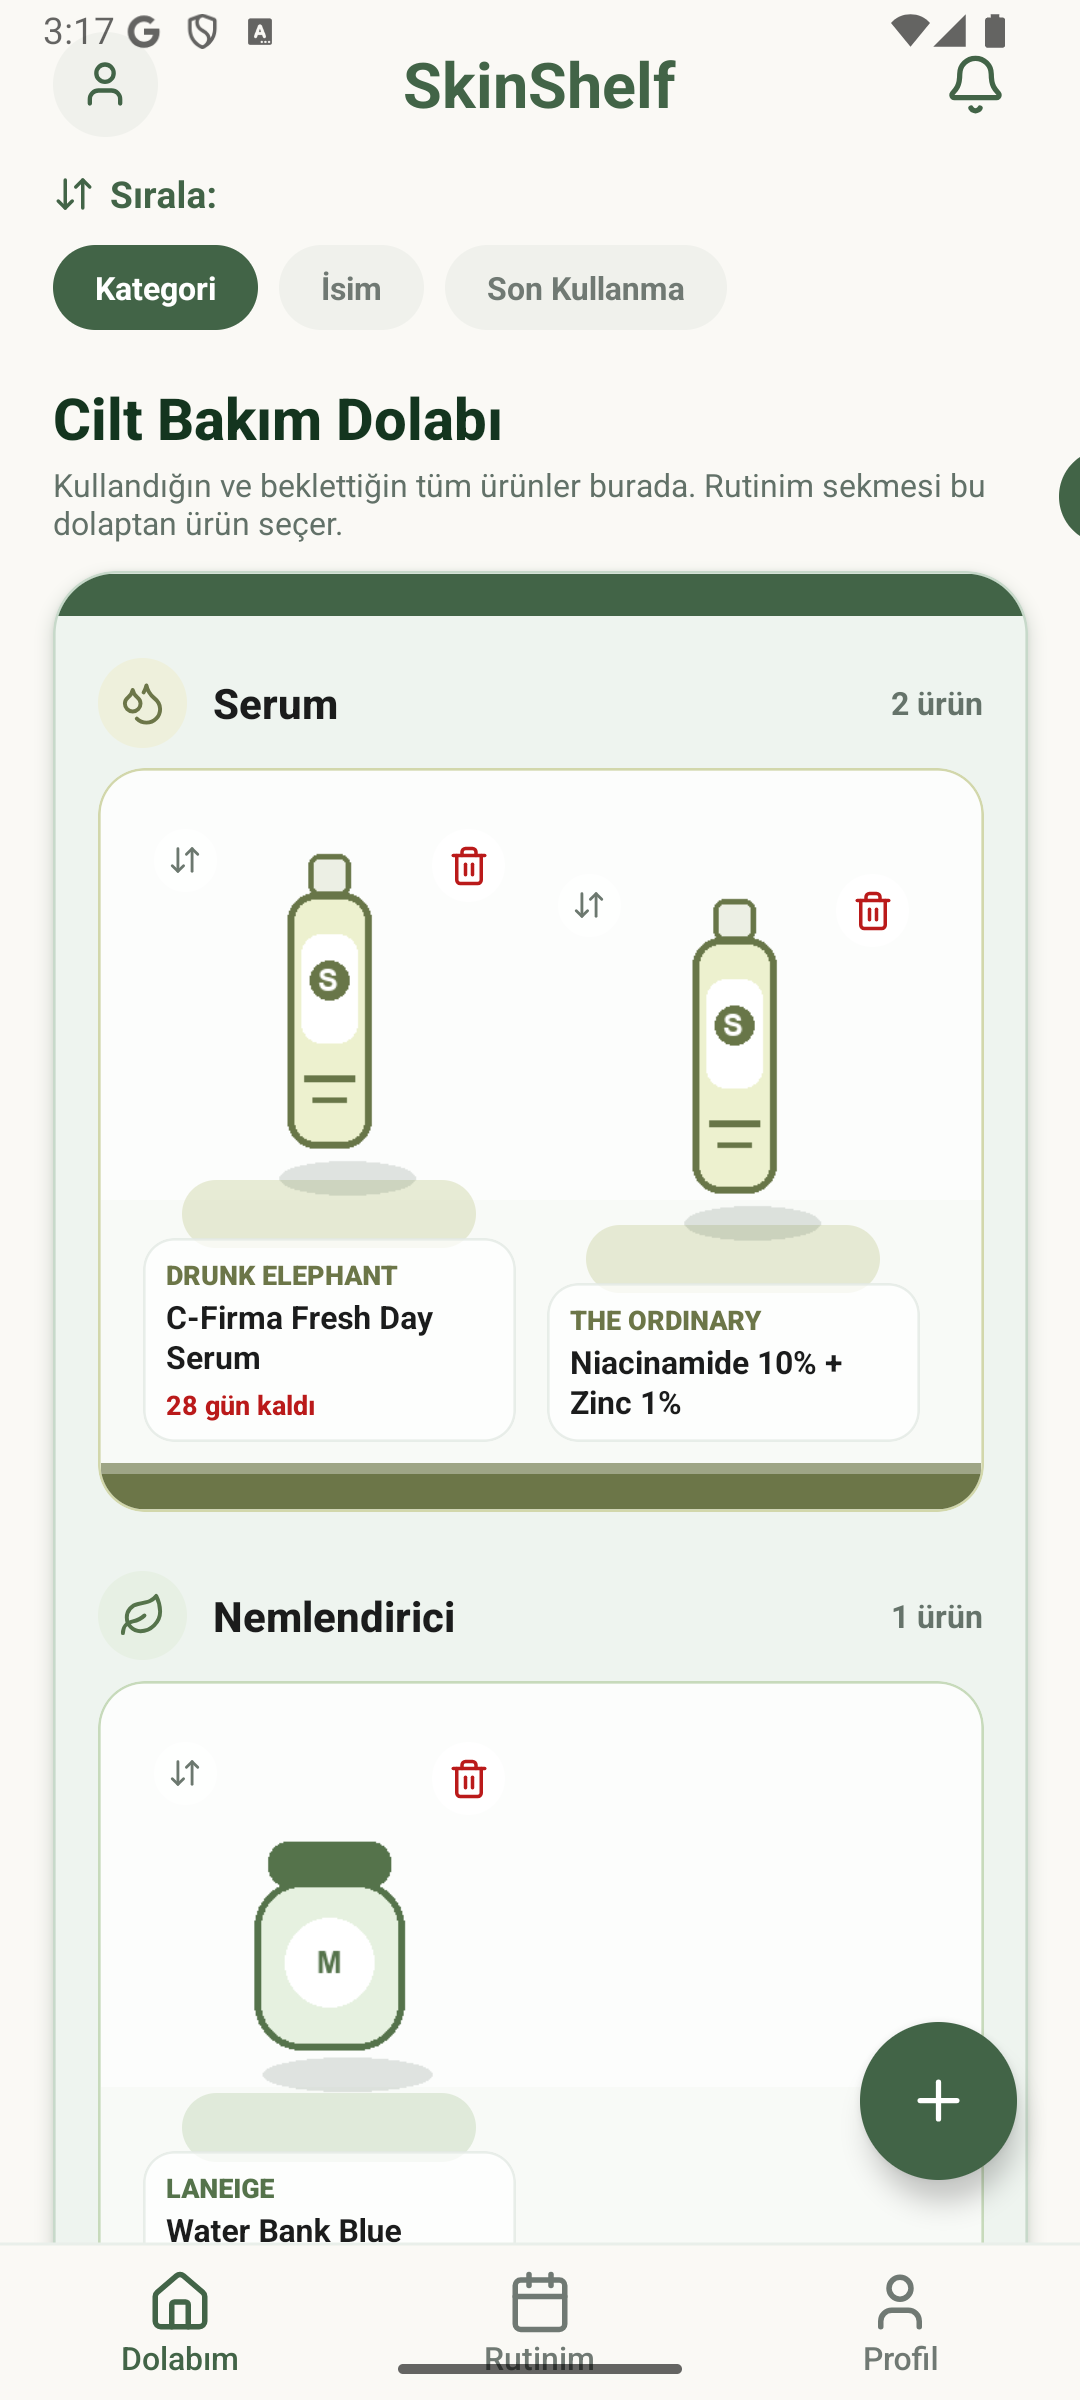
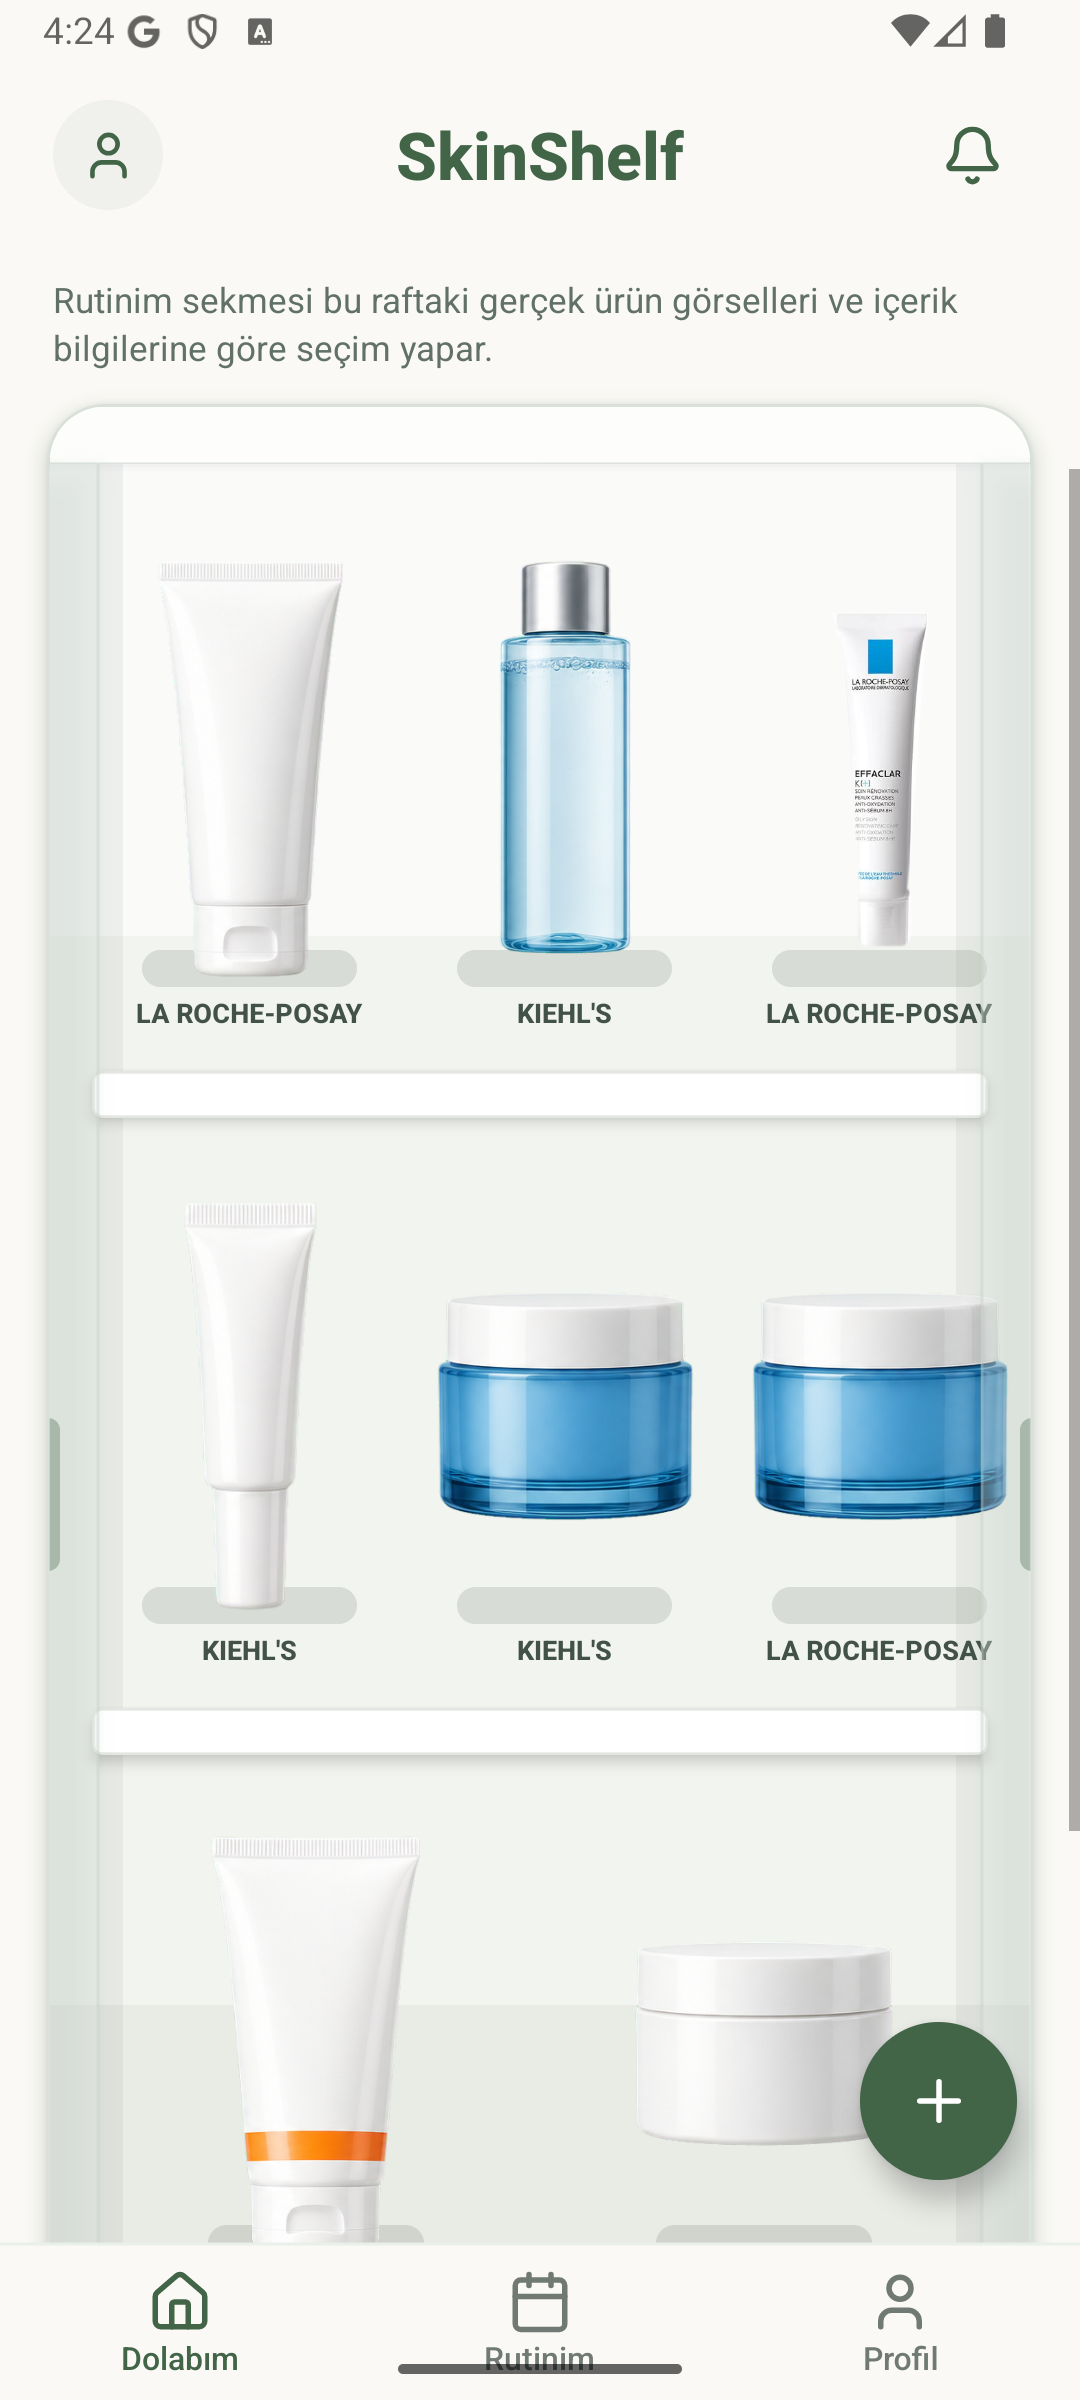
docs: update sprint 1 app evidence

diff --git a/Project_Management_Files/Sprint_1/System_Design/Product_Data_Source_Plan.md b/Project_Management_Files/Sprint_1/System_Design/Product_Data_Source_Plan.md
@@ -1,6 +1,6 @@
 # Sprint 1 Product Data Source Plan
 
-SkinShelf'in ürün ekleme akışında barkod okutulduğunda ürün adı, marka, içerik listesi ve ürün görselinin otomatik doldurulması hedeflenmektedir. Sprint 1'de bu ihtiyaca uygun açık veri kaynağı araştırılmış ve mobil servis katmanında entegrasyon iskeleti hazırlanmıştır.
+SkinShelf'in ürün ekleme akışında barkod okutulduğunda ürün adı, marka, içerik listesi ve kategori bilgisinin otomatik doldurulması hedeflenmektedir. Sprint 1'de bu ihtiyaca uygun açık veri kaynağı araştırılmış ve mobil servis katmanında entegrasyon iskeleti hazırlanmıştır. Ürün görselleri ise açık kaynak ürün fotoğrafından bağımsız, ekip tarafından hazırlanacak PNG/cutout katalog veya backend database eşleşmesi üzerinden yönetilecektir.
 
 ## Seçilen Açık Veri Kaynağı
 
@@ -9,13 +9,20 @@ Birincil kaynak olarak Open Beauty Facts planlanmıştır.
 - Kaynak: https://github.com/openfoodfacts/openbeautyfacts
 - Web: https://world.openbeautyfacts.org
 - API yaklaşımı: `GET /api/v2/product/{barcode}`
-- Örnek alanlar: `product_name`, `brands`, `ingredients_text`, `image_front_url`, `categories_tags`
+- Örnek alanlar: `product_name`, `brands`, `ingredients_text`, `categories_tags`
 
 Open Beauty Facts, kozmetik ürünler için topluluk katkılı açık veri tabanı sunduğu için SkinShelf'in barkod ile ürün tanıma hedefiyle uyumludur.
 
 ## Sprint 1 Teknik Kararı
 
 Sprint 1'de `src/services/openBeautyFactsService.ts` dosyası eklenmiştir. Bu servis barkoddan ürün verisi çekmeyi, gelen cevabı uygulamanın `ProductDraft` modeline çevirmeyi ve ürün inceleme ekranına aktarmayı hedefler.
+
+Ürün raf görseli için ayrı bir katalog kararı alınmıştır:
+
+- `src/services/productVisualCatalog.ts` marka + ürün adına göre lokal veya backend kaynaklı `cutoutImageUrl` eşleşmesi yapar.
+- Eşleşme varsa raflarda gerçek ürün PNG/cutout gösterilir.
+- Eşleşme yoksa kategori bazlı temsili PNG gösterilir.
+- Sprint 1 demo kanıtında La Roche-Posay Effaclar K(+) için kullanıcı tarafından sağlanan ürün görseli arka plansız PNG cutout olarak eklenmiştir.
 
 Kullanılan demo barkod:
 
@@ -30,9 +37,10 @@ Bu barkod Open Beauty Facts üzerinde La Roche-Posay Effaclar Duo+ örneği olar
 1. Kullanıcı Scanner ekranında barkod okutmayı seçer.
 2. Mobil uygulama barkodu `productService.scanProduct()` fonksiyonuna gönderir.
 3. `openBeautyFactsService` Open Beauty Facts API'den ürün bilgilerini ister.
-4. Ürün bulunursa marka, ürün adı, kategori, içerik ve görsel ProductReview ekranına otomatik taşınır.
-5. Ürün bulunamazsa fotoğraf/etiket okuma akışına geçilir.
-6. Kullanıcı gerekirse otomatik gelen bilgileri düzenler ve ürünü dolabına kaydeder.
+4. Ürün bulunursa marka, ürün adı, kategori ve içerik ProductReview ekranına otomatik taşınır.
+5. `productVisualCatalog` ürün adı/marka eşleşmesine göre raf görseli için cutout PNG seçer.
+6. Ürün bulunamazsa fotoğraf/etiket okuma akışına geçilir.
+7. Kullanıcı gerekirse otomatik gelen bilgileri düzenler ve ürünü dolabına kaydeder.
 
 ## Fallback Stratejisi
 
@@ -53,12 +61,14 @@ Open Beauty Facts topluluk katkılı bir kaynak olduğu için her ürünün veya
 | İçerik listesi eksik veya farklı dilde | AI analizi zayıflayabilir | Kullanıcıdan içerik etiketi fotoğrafı isteme |
 | Ürün kategorisi hatalı gelebilir | Rutin önerisi yanlış olabilir | Kategori alanını ProductReview ekranında düzenlenebilir tutma |
 | İçerik listesi eksik veya hatalı gelebilir | AI uyumluluk analizi eksik kalabilir | İçerik etiketlerini ProductReview ekranında eklenebilir/silinebilir tutma |
+| Ürünün gerçek PNG cutout görseli katalogda yok | Raflarda gerçek ürün yerine temsili şişe görünür | Ekip tarafından manuel cutout DB/katalog genişletme |
 | Veri kaynağı çevrimdışı olabilir | Barkod akışı çalışmayabilir | Demo/fallback product response ve hata yönetimi |
 
 ## Sprint 2 Entegrasyon Hedefi
 
 - Gerçek kamera barkod okuyucu entegrasyonu
 - Open Beauty Facts endpoint'i için hata yönetimi
+- Ürün cutout görsel katalog / database yönetimi
 - Ürün bulunamama durumunda fotoğraf/OCR fallback'i
 - Gemini ile içerik normalizasyonu
 - Kullanıcı onayı sonrası backend/database kayıt akışı

diff --git a/README.md b/README.md
@@ -160,7 +160,8 @@ AI servis planı: [AI_Service_Plan.md](Project_Management_Files/Sprint_1/System_
 **Barkod / açık ürün verisi kararı:**
 
 - Barkod ile ürün tanıma için Open Beauty Facts açık kozmetik ürün verisi birincil kaynak olarak seçilmiştir.
-- `src/services/openBeautyFactsService.ts` ile barkoddan ürün adı, marka, içerik, kategori ve görsel alanlarını ProductReview ekranına taşıyacak servis iskeleti eklenmiştir.
+- `src/services/openBeautyFactsService.ts` ile barkoddan ürün adı, marka, içerik ve kategori alanlarını ProductReview ekranına taşıyacak servis iskeleti eklenmiştir.
+- Ürün görselleri açık kaynak fotoğraf alanından bağımsız tutulmuştur. Raf görünümü için `src/services/productVisualCatalog.ts` üzerinden marka + ürün adına göre ekip tarafından hazırlanmış PNG/cutout katalog eşleşmesi yapılır; eşleşme yoksa kategori bazlı temsili PNG gösterilir.
 - Barkod bulunamadığında fotoğraf/etiket okuma, Gemini ile içerik çıkarımı ve kullanıcı onaylı manuel düzenleme fallback akışı Sprint 2 kapsamına alınmıştır.
 
 ## Kurulum ve Çalıştırma
@@ -208,6 +209,8 @@ Sprint 1 kanıt indeksi: [Project_Management_Files/Sprint_1/README.md](Project_M
 - `src/` altında `screens`, `navigation`, `services` ve `context` katmanları oluşturuldu.
 - Kullanıcının hesap oluşturma, giriş yapma, cilt tipi seçme ve özel cilt durumlarını belirtme akışları tasarlandı.
 - Kişisel ürün dolabı raflı envanter ekranına ayrıldı; Rutinim sekmesi dolaptaki ürünlerden şikayete göre günlük ve haftalık rutin önerisi oluşturacak şekilde hazırlandı.
+- Dolap görsel altyapısı gerçek ürün PNG/cutout katalog mantığına ayrıldı; Sprint 1'de Effaclar örneği lokal cutout olarak, diğer ürünler temsili kategori PNG'leriyle gösterildi.
+- Açık ürün verisi entegrasyonu ürün adı/marka/içerik için tutuldu; ürün görsellerinin uygulama açılışı öncesi manuel DB/cutout katalog ile büyütülmesi Sprint 2-3 hedefi olarak ayrıldı.
 - AI analiz, barkod tarama ve fotoğraf çekim akışları için prototip ekranlar oluşturuldu.
 - Form ekranlarında klavye odaklanma ve buton tıklama problemleri giderildi.
 - UML diyagramı ve kullanıcı akış şeması README'ye eklendi.
@@ -334,7 +337,13 @@ Kullanıcıların sahip oldukları kozmetik ürünleri dijital ortama aktardıkl
 | :---: | :---: | :---: | :---: |
 | <img src="assets/screenshots/dolab.png" width="180"> | <img src="assets/screenshots/dolab_detay.png" width="180"> | <img src="assets/screenshots/urun_ekle.png" width="180"> | <img src="assets/screenshots/urun_ekle2.png" width="180"> |
 
-Kullanıcılar ürün kategorisi, kullanım zamanı, aktif içerikler ve ürün detaylarını görüntüleyebilir. AI analiz metinleri Sprint 1'de arayüz seviyesinde temsil edilmektedir.
+Dolap ekranı raflı dijital ürün dolabı olarak çalışır. Ürün görseli için önce ekip tarafından hazırlanan cutout katalog eşleşmesi kullanılır; katalogda ürün yoksa kategoriye göre temsili PNG gösterilir. Kullanıcılar ürün kategorisi, kullanım zamanı, aktif içerikler ve ürün detaylarını görüntüleyebilir. AI analiz metinleri Sprint 1'de arayüz seviyesinde temsil edilmektedir.
+
+| Android Dolabım Smoke Test | Android Rutinim Smoke Test | Android Profil Smoke Test |
+| :---: | :---: | :---: |
+| <img src="Project_Management_Files/Sprint_1/Product_Screenshots/android-dolabim-shelf.png" width="200"> | <img src="Project_Management_Files/Sprint_1/Product_Screenshots/android-rutinim-plan.png" width="200"> | <img src="Project_Management_Files/Sprint_1/Product_Screenshots/android-profile-fixed.png" width="200"> |
+
+Rutinim sekmesi, dolaptaki ürünleri kullanarak kullanıcının şikayetine göre bugünün sabah/akşam rutinini ve 7 günlük planı oluşturur. Şikayet alma ve 7. gün kontrolü Sprint 1'de sohbet akışı olarak prototiplenmiştir.
 
 #### 4. Profil ve Ayarlar
 

diff --git a/Project_Management_Files/Sprint_1/Product_Screenshots/README.md b/Project_Management_Files/Sprint_1/Product_Screenshots/README.md
@@ -11,6 +11,7 @@ Sprint 1 uygulama ekran goruntuleri su an ana asset klasorunde tutulmaktadir:
 - `assets/screenshots/barkod.png`
 - `assets/screenshots/foto_cek.png`
 - `assets/screenshots/dolab.png`
+- `assets/screenshots/rutinim.png`
 - `assets/screenshots/dolab_detay.png`
 - `assets/screenshots/urun_ekle.png`
 - `assets/screenshots/urun_ekle2.png`
@@ -18,7 +19,8 @@ Sprint 1 uygulama ekran goruntuleri su an ana asset klasorunde tutulmaktadir:
 
 ## Yeni Android Smoke Test Ekranlari
 
-- [android-dolabim-shelf.png](android-dolabim-shelf.png): Android emulator uzerinde rafli PNG urun dolabi.
-- [android-rutinim-plan.png](android-rutinim-plan.png): Android emulator uzerinde dolaptaki urunlerden olusan Rutinim AI plan ekrani.
+- [android-dolabim-shelf.png](android-dolabim-shelf.png): Android emulator uzerinde rafli PNG/cutout urun dolabi.
+- [android-rutinim-plan.png](android-rutinim-plan.png): Android emulator uzerinde dolaptaki urunlerden olusan Rutinim AI plan ve sohbet akisi.
+- [android-profile-fixed.png](android-profile-fixed.png): Android emulator uzerinde profil ekrani ve son menu cizgisi duzeltmesi.
 
 README'deki Sprint 1 Urun Durumu bolumu bu ekran goruntulerini kullanir.

diff --git a/Project_Management_Files/Sprint_1/Test_and_Verification.md b/Project_Management_Files/Sprint_1/Test_and_Verification.md
@@ -26,7 +26,7 @@ Beklenen ve alinan sonuc:
 - Marka: La Roche-Posay
 - Urun: Effaclar duo+
 - Icerik alani: Var
-- Gorsel alani: Var
+- Raf gorseli: Open Beauty Facts fotografi kullanilmaz; `productVisualCatalog` uzerinden lokal PNG/cutout veya kategori fallback PNG kullanilir.
 
 Bu dogrulama, Sprint 2'de gercek kamera barkod okuyucu eklendiginde servis katmaninin kullanilabilir oldugunu gostermek icin yapilmistir.
 
@@ -39,10 +39,12 @@ Bu dogrulama, Sprint 2'de gercek kamera barkod okuyucu eklendiginde servis katma
 | Sign Up -> SkinType | Onboarding akisi cilt tipi secimine devam eder | Gecti |
 | SkinType -> SkinConditions | Cilt tipi secimi sonraki adıma baglidir | Gecti |
 | Home / Dolabim | Tum urunler rafli dolapta PNG obje olarak gorunur | Gecti |
+| Home / Product visual catalog | Cutout katalogda eslesen urun gercek PNG olarak, eslesmeyen urun kategori fallback PNG olarak gorunur | Gecti |
 | Home shelf drag | Ayni raftaki urunler saga/sola suruklenerek siralanabilir | Gecti |
 | Routine tab | Alt navigasyonda Rutinim sekmesi acilir | Gecti |
 | Routine AI plan | Dolaptaki urunlerden sikayete gore bugun ve 7 gunluk plan olusur | Gecti |
-| Routine follow-up | Bir hafta sonrasi icin gecti/devam ediyor aksiyonlari gorunur | Gecti |
+| Routine chat | AI bugunku sikayeti sohbet akisiyle sorar | Gecti |
+| Routine follow-up | Bir hafta sonrasi icin otomatik kontrol mesaji prototipi gorunur | Gecti |
 | Scanner | Barkod ve fotograf modlari arasinda gecis vardir | Gecti |
 | Scanner -> ProductReview | Taranan urun review ekranina tasinir | Gecti |
 | ProductReview edit | Marka, urun adi, kategori ve icerik etiketleri onaydan once duzenlenebilir | Gecti |

diff --git a/Project_Management_Files/Sprint_1/Frontend_Scope.md b/Project_Management_Files/Sprint_1/Frontend_Scope.md
@@ -11,8 +11,8 @@ Bu dosya Sprint 1 sonunda frontend tarafinda tamamlananlari ve sonraki sprintler
 | Sign Up | Hesap olusturma prototipi | Done |
 | Skin Type | Cilt tipi secimi | Done |
 | Skin Conditions | Hassasiyet ve ozel durum secimi | Done |
-| Home / Dolabim | Tum urunlerin rafli dolap gorunumunde listelendigi, PNG obje ve surukle-birak destekli envanter ekrani | Done |
-| Routine / Rutinim | Dolaptaki urunlerden sikayete gore bugun ve 7 gunluk sabah/aksam AI rutin plani olusturma | Done |
+| Home / Dolabim | Tum urunlerin rafli dolap gorunumunde listelendigi, cutout katalog/fallback PNG ve surukle-birak destekli envanter ekrani | Done |
+| Routine / Rutinim | Dolaptaki urunlerden sikayete gore bugun ve 7 gunluk sabah/aksam AI rutin plani ve sohbet tipi sikayet akisi olusturma | Done |
 | Scanner | Barkod/fotograf tarama prototipi | Done |
 | Product Review | Taranan urunu inceleme, marka/urun/kategori/icerik alanlarini duzenleme ve dolaba ekleme | Done |
 | Product Detail | Urun icerik, aciklama, AI analiz prototipi ve duzenleme akisina gecis | Done |
@@ -25,6 +25,7 @@ Tam puana yaklasmak icin sonraki sprintte frontend tarafinda asagidaki isler onc
 - Gercek kamera ve barkod okuyucu entegrasyonu
 - Urun duzenleme akisinda backend update endpointini kullanmak
 - Open Beauty Facts icerik verisini normalize ederek AI analiz etiketleriyle eslestirmek
+- Ekip tarafindan hazirlanan gercek urun cutout PNG katalogunu backend/database ile eslestirmek
 - Backend hata durumlari icin toast/alert ve retry durumlari
 - Auth token'a gore login/onboarding yonlendirmesi
 - Open Beauty Facts'te bulunamayan urunler icin manuel urun giris formu

diff --git a/Project_Management_Files/Sprint_1/README.md b/Project_Management_Files/Sprint_1/README.md
@@ -36,12 +36,13 @@ Sprint 1'in hedefi, SkinShelf icin demo edilebilir mobil uygulama iskeletini ve 
 - Cilt tipi ve ozel cilt durumu onboarding ekranlari
 - Rafli Dolabim ekrani ve dijital urun envanteri
 - Rutinim sekmesi ile sikayete gore 7 gunluk AI rutin prototipi
+- Urun gorseli icin ekip tarafindan buyutulecek PNG/cutout katalog altyapisi
 - Urun detay ekrani
 - Barkod / fotograf tarama ekrani
 - Urun inceleme ve dolaba ekleme ekrani
 - Profil ekrani
 - Context tabanli prototip state yonetimi
-- Open Beauty Facts barkod lookup servis iskeleti
+- Open Beauty Facts barkod lookup servis iskeleti; acik kaynaktan veri/icerik, gorsel icin ayri cutout katalog karari
 
 ## Sprint 2'ye Aktarilanlar
 